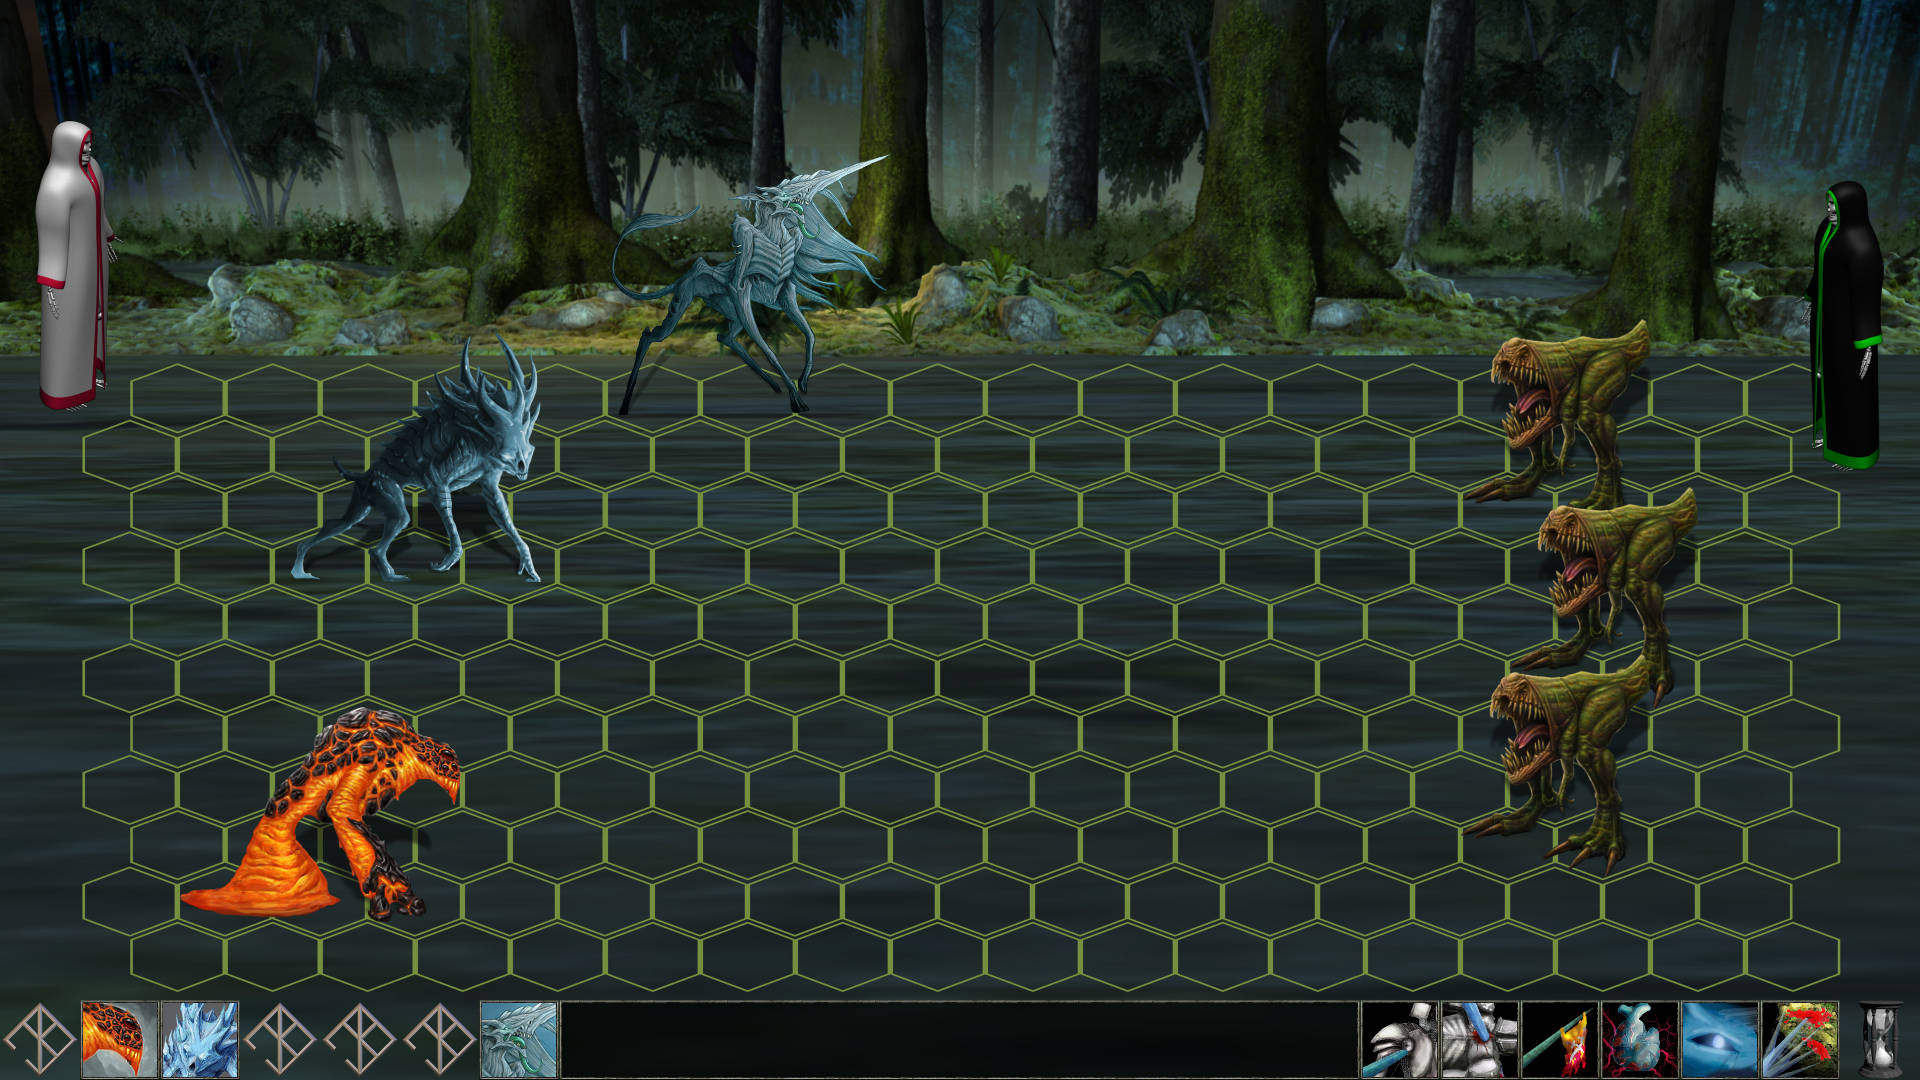
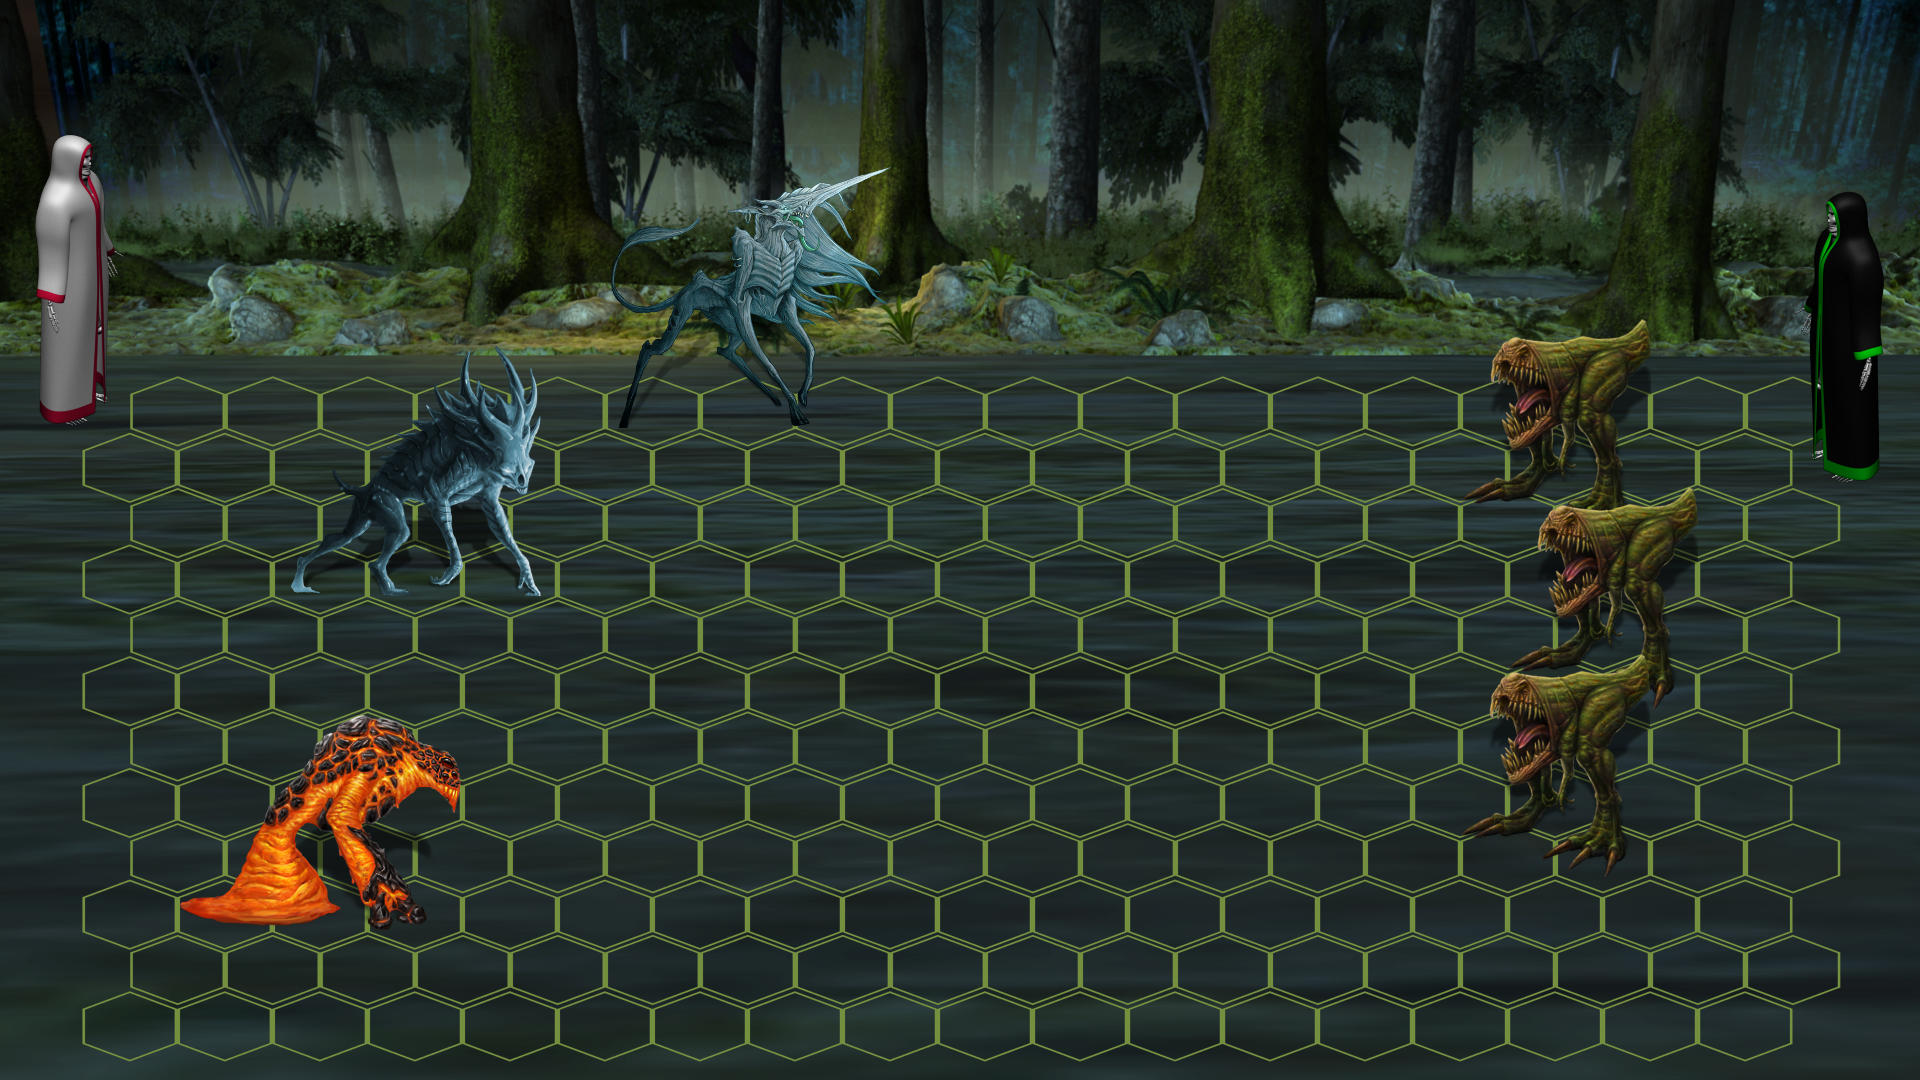
removed combat UI

diff --git a/manual/index.php b/manual/index.php
@@ -52,11 +52,6 @@ Despite their combined efforts, the world's governments couldn't prevent the wor
 In order to play Ancient Beast, you'll needed a <a href="http://www.freezingmoon.org/account" target="_blank"><b>FreezingMoon</b></a> account. After logging in, you'll be offered a level 1 creature to get you started and you'll have access to the adventure map, which has 49 locations you can fight at. When you go to a location, you're shown other players already there, which you can challenge or accept challenges from. Fights take place between two sides, up to five players each, the challenger party being showed at the left side of the combat field, which is 18x12 hexes. Based on the difficulty of the fight, you can win gold coins, which can be spent in the shop in order to buy creatures, items, outfits and avatars.
 </p>
 <img src="combat.jpg" style="width:100%;">
-<table width=100%><tr style="text-align:center; vertical-align:top;">
-	<td width=30%><b>Creature slots</b><br>Based on your mana points, you can summon and control up to 7 creatures</td>
-	<td width=40%><b>Status bar</b><br>Displays combat and chat logs and also shows information about things</td>
-	<td width=30%><b>Creature abilities</b><br>Displays the abilities of the active creature, the last one allowing you to skip turn</td>
-</tr></table>
 <p>
 Players are represented on the combat field by skeletons and can be customized by purchasing outfits, which can influence the stats of their summoned creatures.
 Players can level up by gaining experience on the combat field, gaining 1 more mana point each level, being able to summon more and/or better creatures. In order to summon a creature you own, it takes a number of mana points equal to the creature's level. Summoning a creature multiple times duplicates it's equiped items and raises it's required mana points by 1 each time for the duration of the combat. When fighting players of lower levels, you will temporarely lose mana points in order to balance the fight.
